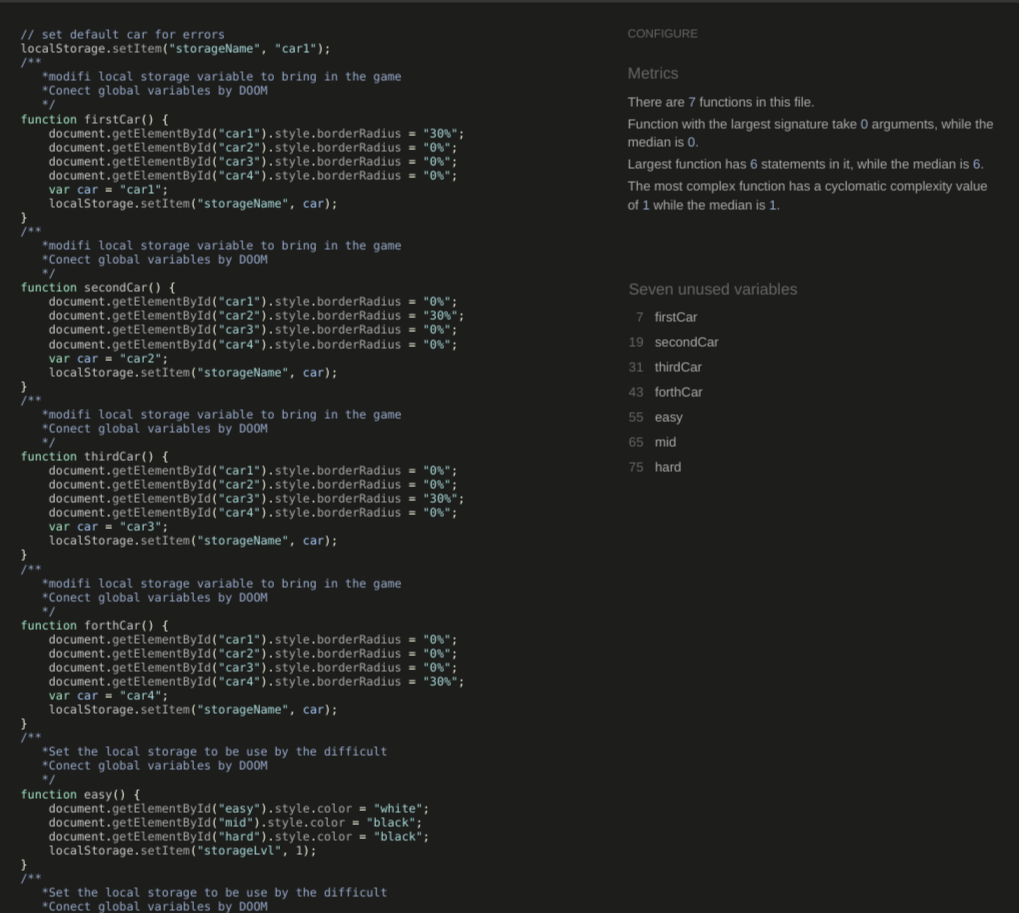
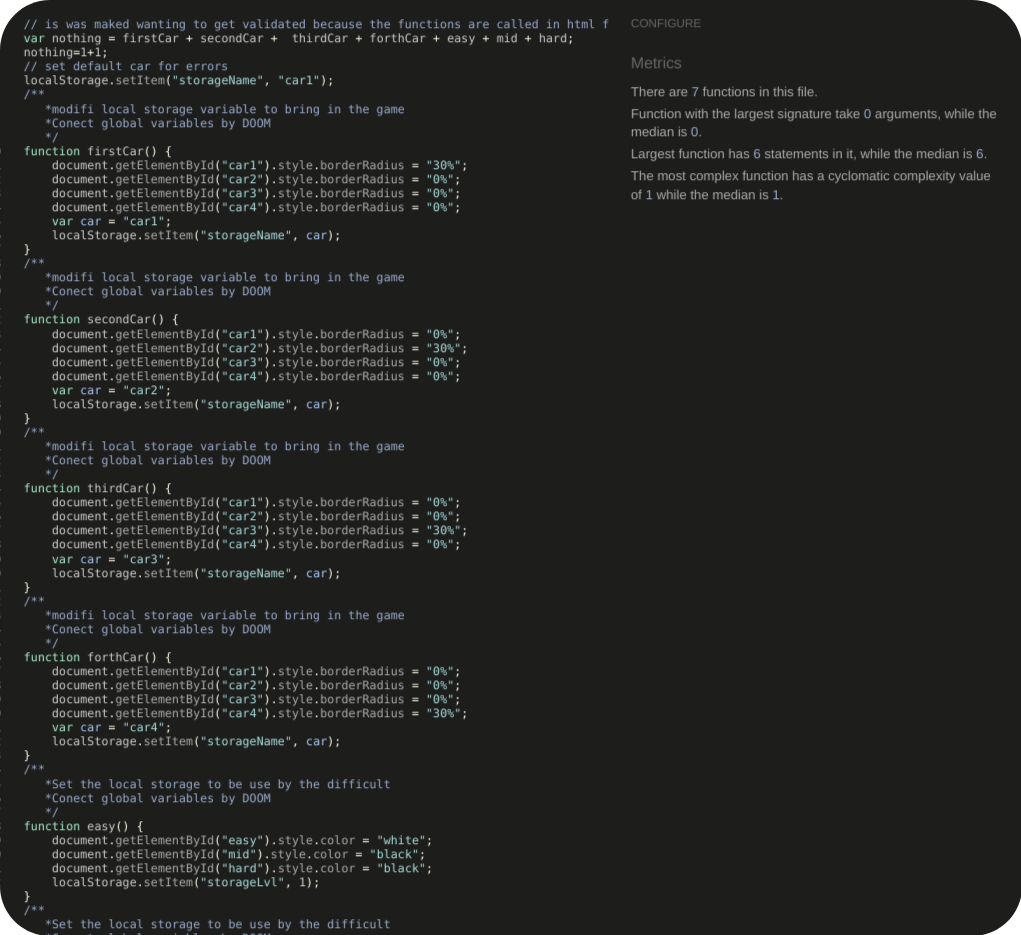
4.0 version fixing mistakes erase the blank spaces erase comments

diff --git a/assets/js/game.js b/assets/js/game.js
@@ -1,3 +1,6 @@
+var nothing = moveright+moveleft;
+nothing= 1+1;
+
 // depurating condition
 if (document.readyState === "complete" || document.readyState === "interactive") {
     setTimeout(Init, 1);
@@ -64,8 +67,8 @@ function Run() {
     // constructor car
     car = document.querySelector("#car");
     car.style.left = (40) + "px";
-    // car.style.top = (350)+"px";  
-    // quitar comentarios para comprovar el estrellon inicial antes de moverse
+    // Comment the down line to prube the game without need to move
+    car.style.top = (350)+"px";  
     container.appendChild(car);
     let carClass = localStorage.getItem("storageName");
     lvlDiv = localStorage.getItem("storageLvl");
@@ -167,7 +170,6 @@ function moveright() {
         car.style.left = (dx) + "px";
         car.style.top = 350 + "px";
     }
-    // else console.log("You have been crashed");
 }
 /** 
    * Move the Ego Car in the left direction.
@@ -188,14 +190,11 @@ function moveleft() {
         car.style.left = (dx) + "px";
         car.style.top = 350 + "px";
     }
-    // else console.log("You have been crashed"); 
 }
 /** 
    * Move the Enemies Cars Down direction.
    * Move down everyone Div in a creasing px distance.
    * The function is called by the refresh function.
-   * @param {nothing}  
-   * @returns {nothing}
    */
 function moveEnemies() {
     // get all enemies class declared into the function to update every ejecution
@@ -214,7 +213,6 @@ function moveEnemies() {
             posY += accel;
             actualEnemi.style.top = posY + "px";
         }
-        // else console.log("Game Over");
         x += 1;
     }
 
@@ -237,25 +235,20 @@ function colition() {
             enemyX = parseInt(enemyX);
             let playerY = parseInt(car.style.top);
             let playerX = parseInt(car.style.left);
-            // console.log(playerX ,enemyX);
-            // console.log(playerY ,enemyY);
             const space = 15;
             if ((enemyX <= (playerX + space)) && (enemyX >= (playerX - space))) {
                 if ((enemyY <= (playerY + space)) && (enemyY >= (playerY - space))) {
-                    // console.log("game over");
                     endGame();
                 }
 
             }
             else {
-                // flag=true;
             }
             // delete enemies out of the screen
             if (enemyY > 500) {
                 enemy_car[x].remove();
             }
         }
-        // else console.log("undefined item")
         x += 1;
 
     }
@@ -266,7 +259,6 @@ function colition() {
    * The function is called by the colition event.
    */
 function endGame() {
-    // getComputedStyle(document.documentElement).getPropertyValue('--background-velocity');
     document.documentElement.style.removeProperty('--background-velocity');
     document.documentElement.style.setProperty('--background-velocity', '0px');
     flag = false;
@@ -285,8 +277,6 @@ function refresh_page() {
         finalAlert.appendChild(loseGame);
         finalAlert.appendChild(refBut);
         finalAlert.classList.add("titleEnd");
-        // loseGame.classList.add("titleEnd");
-        // refBut.classList.add("titleEnd");
         loseGame.textContent = ("your score was:" + intScore);
         refBut.textContent = ("GO HOME");
         refBut.href = "index.html";

diff --git a/assets/js/contact_us.js b/assets/js/contact_us.js
@@ -1,4 +1,4 @@
-
+var emailjs;
 /**
  * Sends contact form data to email(developer) by submiting 
  * Code written by the help of the official EmailJS tuttorial https://www.emailjs.com/docs/tutorial/creating-contact-form/
@@ -19,7 +19,7 @@ window.onload = function () {
             });
         
     });
-}
+};
 function thanksMessage() {
     let newHtml = `
     <div id="thanksWrapper" class="thanksMessage>

diff --git a/assets/css/style.css b/assets/css/style.css
@@ -55,7 +55,7 @@ body {
     font-size: larger;
     color: black;
 }
-
+/* FORM items */
 .form_section {
     align-items: center;
     display: flex;
@@ -476,7 +476,7 @@ section {
         background-color: rgba(255, 0, 0, 0.224);
     }
 }
-
+/* animate of colors change gradual */
 @keyframes colorAnimation {
     0% {
         color: white;

diff --git a/assets/js/carSelector.js b/assets/js/carSelector.js
@@ -1,3 +1,6 @@
+// it was maked wanting to get validated because the functions are called in html file and the validator detect it like unused variables
+var nothing = firstCar + secondCar +  thirdCar + forthCar + easy + mid + hard;
+nothing=1+1;
 // set default car for errors
 localStorage.setItem("storageName", "car1");
 /** 

diff --git a/contact_us.html b/contact_us.html
@@ -30,7 +30,7 @@
             </div>
         </div>
     </header>
-    <!-- contact FORM  -->
+    <!-- Contact FORM  -->
     <div id="formId" class="form_section">
 
         <div class="contact_form">

diff --git a/404.html b/404.html
@@ -29,6 +29,7 @@
     </div>
   </header>
   <hr>
+  <!-- 404 content -->
   <div class="errorMessage">ERROR</div>
   <div class="div404">404 </div>
   <h1 class="title404">Page not found</h1>

diff --git a/how_play.html b/how_play.html
@@ -28,6 +28,7 @@
             </div>
         </div>
     </header>
+    <!-- instructions section -->
     <div class="instructions">
         <div>
             <h1>Instructions</h1>

diff --git a/index.html b/index.html
@@ -27,6 +27,7 @@
             </div>
         </div>
     </header>
+    <!-- UI section -->
     <section>
         <div class="main_div">
             <h2>Select your Machine</h2>

diff --git a/game.html b/game.html
@@ -44,6 +44,7 @@
             </ion-icon>
         </div>
     </div>
+    <!-- fill the page -->
     <div id="space">
 
     </div>

diff --git a/README.md b/README.md
@@ -49,11 +49,12 @@ CSS is a cornerstone technology of the World Wide Web, alongside HTML and JavaSc
     6. [Browsers support](#browsers-support)
     7. [Testing user stories](#testing-user-stories)
 8. [Bugs](#bugs)
-9. [Deployment](#deployment)
-10. [Credits](#credits)
-11. [Contributing](#contributing)
-12. [License](#license)
-13. [Acknowledgements](#acknowledgements)
+9. [Exeptions](#exeptions)
+10. [Deployment](#deployment)
+11. [Credits](#credits)
+12. [Contributing](#contributing)
+13. [License](#license)
+14. [Acknowledgements](#acknowledgements)
 
 ## __Project Goals__
 
@@ -576,6 +577,9 @@ Google Lighthouse's Chrome Developer Tool was used to test the website's perform
 | Footer doesn't stay down | change position and HTML min size |
 | Contrast errors | was used animated colors to fix it |
 | Use different cars, they didn't appear | Set a default option|
+## __Exeptions__
+
+In Game.html was putted a script in the header for jsemail because, The mail doesn't work if the script is not in  there.
 
 ## __Deployment__
 
